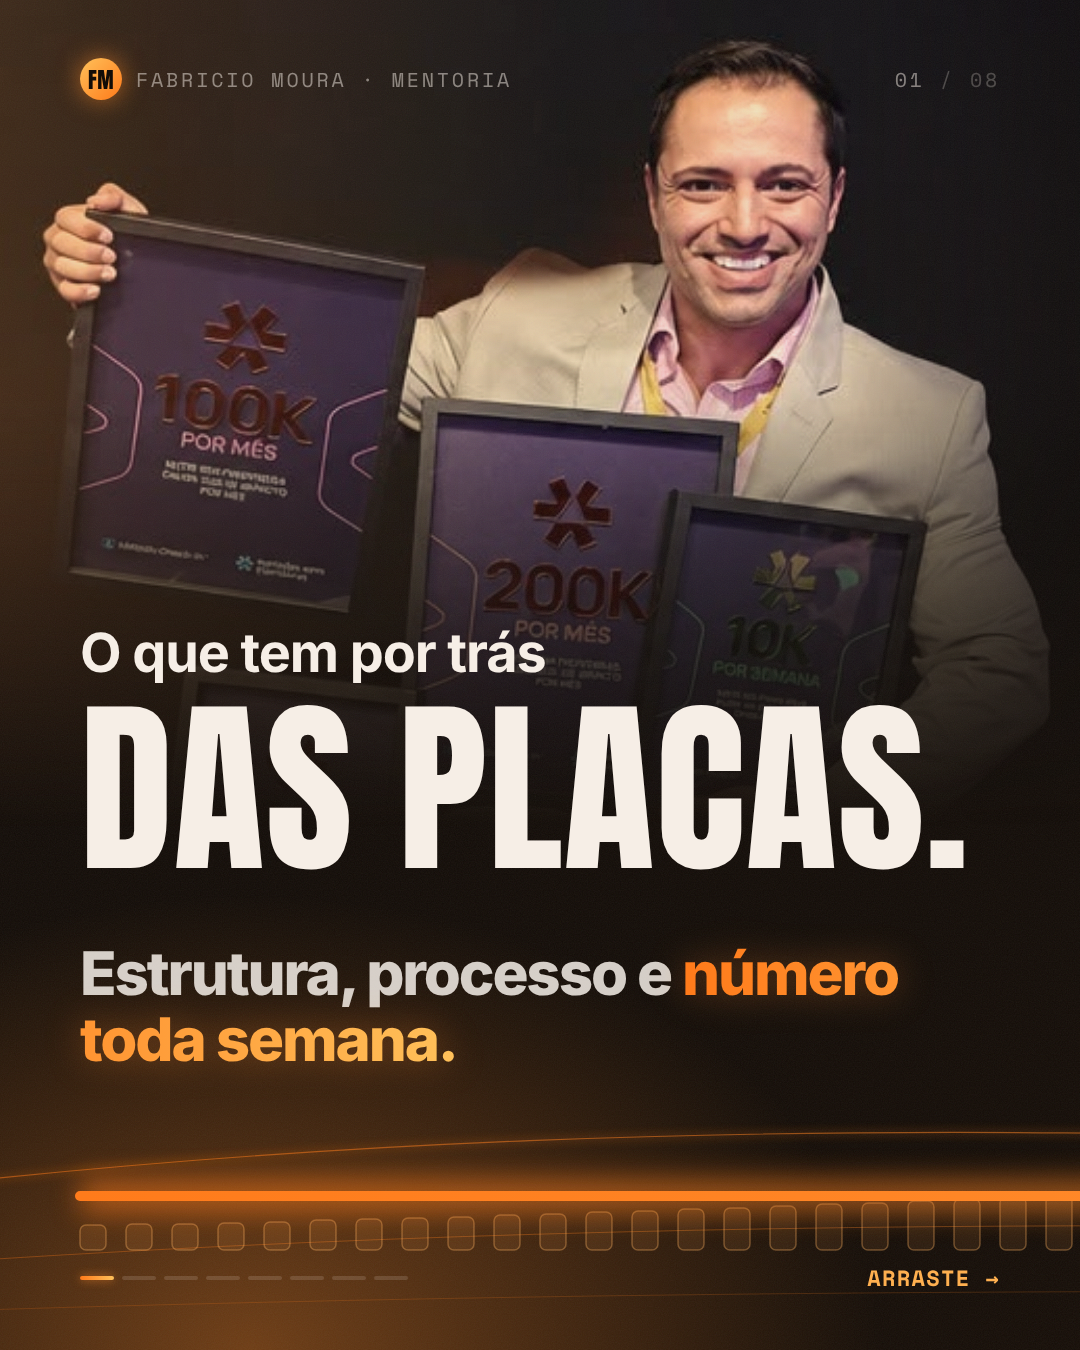
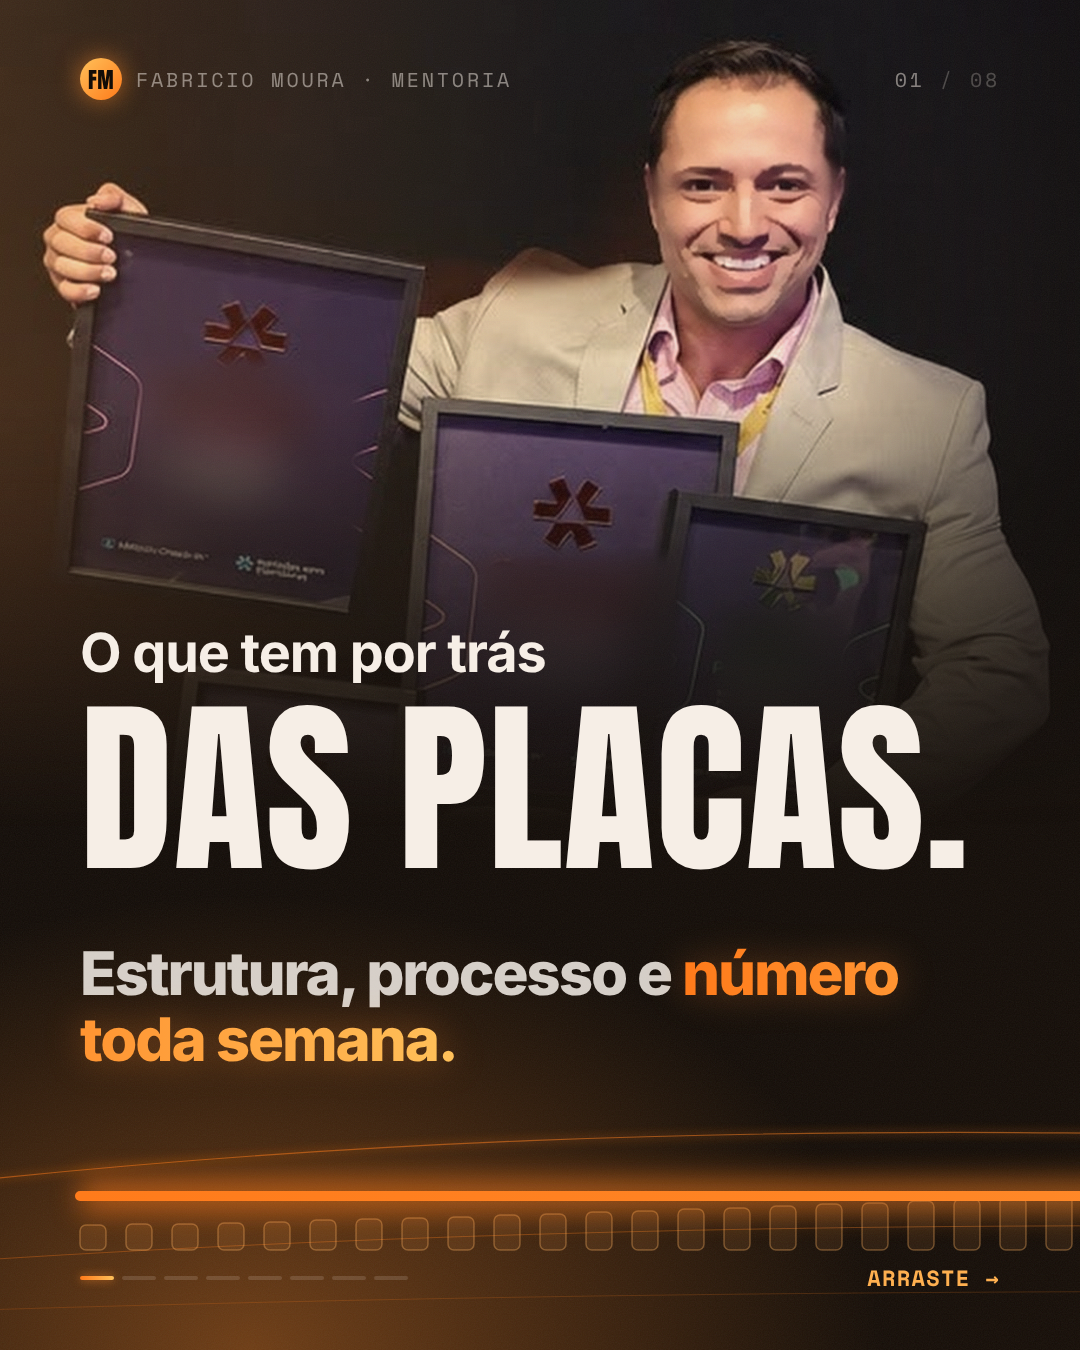
carrossel 8: numeros das placas borrados e pele suavizada na foto da capa
Claude-Session: https://claude.ai/code/session_01RK2kDXjzsRYiZHiUi196vp

diff --git a/marketing/instagram/business/c08-bastidor-placas-glassflow/index.html b/marketing/instagram/business/c08-bastidor-placas-glassflow/index.html
@@ -161,10 +161,10 @@ svg#flow{position:absolute;left:0;top:0;pointer-events:none;z-index:4}
 .flowph{filter:sepia(.25) saturate(1.1)}
 </style></head>
 <body><div id="pano">
-<div class="flowph" style="background-image:url(../fotos/trofeus.jpg);width:1250px;background-position:50% 10%"></div>
+<div class="flowph" style="background-image:url(../fotos/trofeus-edit.jpg);width:1250px;background-position:50% 10%"></div>
 <div class="cblock orange" style="left:3170px;width:1220px;clip-path:polygon(70px 0,100% 0,1150px 100%,0 100%)"></div><div class="cblock cream" style="left:5330px;width:1220px;clip-path:polygon(70px 0,100% 0,1150px 100%,0 100%)"></div>
 <section class="s k-cover" style="left:0px">
-<div class="photo" style="background-image:url(../fotos/trofeus.jpg)"></div>
+<div class="photo" style="background-image:url(../fotos/trofeus-edit.jpg)"></div>
 <div class="a chrome mono"><span class="brand"><b>FM</b>Fabricio Moura · Mentoria</span><span>01 <em>/ 08</em></span></div>
 <div class="a top"><div style="font-size:54px;font-weight:700;letter-spacing:-.02em">O que tem por trás</div><div class="H" style="font-size:250px;line-height:1;white-space:nowrap">das placas.</div></div>
 <div class="a low"><div class="B" style="font-size:72px;line-height:1.1;font-weight:800;letter-spacing:-.035em">Estrutura, processo e <span class="r">número toda semana.</span></div><div style="flex:1"></div><div class="lab" style="color:var(--mute)">Bastidores</div></div>

diff --git a/marketing/instagram/business/retouch-trofeus.py b/marketing/instagram/business/retouch-trofeus.py
@@ -1,0 +1,35 @@
+import cv2, numpy as np, sys
+src, out, dbg = sys.argv[1:4]
+im = cv2.imread(src)
+# regioes (x1,y1,x2,y2) no original 600x752: numero + texto de cada placa
+R = [(62,200,178,298), (225,295,330,382), (340,320,412,392), (95,405,182,462)]
+d = im.copy()
+for x1,y1,x2,y2 in R: cv2.rectangle(d,(x1,y1),(x2,y2),(0,255,0),2)
+cv2.ellipse(d,(357,128),(50,64),0,0,360,(0,0,255),2)
+cv2.imwrite(dbg, d)
+res = im.copy()
+for x1,y1,x2,y2 in R:
+    roi = res[y1:y2, x1:x2]
+    b = cv2.GaussianBlur(roi, (0,0), 9)
+    b = cv2.GaussianBlur(b, (0,0), 6)
+    m = np.zeros(roi.shape[:2], np.float32); cv2.rectangle(m,(4,4),(roi.shape[1]-5,roi.shape[0]-5),1,-1)
+    m = cv2.GaussianBlur(m,(0,0),3)[...,None]
+    res[y1:y2, x1:x2] = (b*m + roi*(1-m)).astype(np.uint8)
+# pele: suaviza preservando bordas
+sm = res.copy()
+for _ in range(3): sm = cv2.bilateralFilter(sm, 7, 30, 5)
+m = np.zeros(res.shape[:2], np.float32); cv2.ellipse(m,(357,128),(50,64),0,0,360,1,-1)
+m = cv2.GaussianBlur(m,(0,0),8)*0.72
+m2 = np.zeros_like(m)
+for c in ((340,142),(378,142)): cv2.ellipse(m2,c,(14,9),0,0,360,1,-1)
+m = np.maximum(m, cv2.GaussianBlur(m2,(0,0),4)*0.9)[...,None]
+noise = np.random.default_rng(1).normal(0,2.2,res.shape)
+res = np.clip(sm*m + res*(1-m) + noise*m, 0, 255).astype(np.uint8)
+# pes de galinha: blur suave localizado
+g = cv2.GaussianBlur(res,(0,0),2.6)
+m3 = np.zeros(res.shape[:2], np.float32)
+for c in ((319,121),(397,119)): cv2.ellipse(m3,c,(9,12),0,0,360,1,-1)
+m3 = (cv2.GaussianBlur(m3,(0,0),3)*0.9)[...,None]
+res = np.clip(g*m3 + res*(1-m3) + noise*m3*0.8, 0, 255).astype(np.uint8)
+res = cv2.resize(res, None, fx=2, fy=2, interpolation=cv2.INTER_LANCZOS4)
+cv2.imwrite(out, res, [cv2.IMWRITE_JPEG_QUALITY, 92])

diff --git a/marketing/instagram/business/posts.py b/marketing/instagram/business/posts.py
@@ -172,7 +172,7 @@ Na quinta eu falei que faturamento é só o placar. A placa também é. O jogo f
 
 É esse caminho que eu passo na mentoria pra treinador e nutricionista que já atende e quer escalar."""+CTA,
   "slides": [
-    {"k":"cover","photo":"trofeus.jpg","phstyle":"width:1250px;background-position:50% 10%","kicker":"O que tem por trás","big":"das placas.","bs":250,"sub":"Estrutura, processo e [[número toda semana.]]","lab":"Bastidores"},
+    {"k":"cover","photo":"trofeus-edit.jpg","phstyle":"width:1250px;background-position:50% 10%","kicker":"O que tem por trás","big":"das placas.","bs":250,"sub":"Estrutura, processo e [[número toda semana.]]","lab":"Bastidores"},
     {"k":"stmt","H":"Toda placa tem [[um bastidor.]]","B":"Muita gente vê a placa e pergunta qual foi o segredo. **A resposta é meio sem graça: estrutura, montada peça por peça.**"},
     {"k":"stmt","H":"O que mudou [[no caminho.]]","items":["Vender acompanhamento, sem consulta avulsa.","Processo na entrada, entrega e renovação.","Time, pra eu deixar de ser o gargalo.","Números olhados toda semana."]},
     {"k":"red","lab":"Hoje","H":"+2 mil transformações","nw":1,"hs":120,"big":"+200 alunos ativos.","bigs":150,"B":"No meu time, com processo e número toda semana. **Sem eu precisar estar em todo atendimento.**"},
